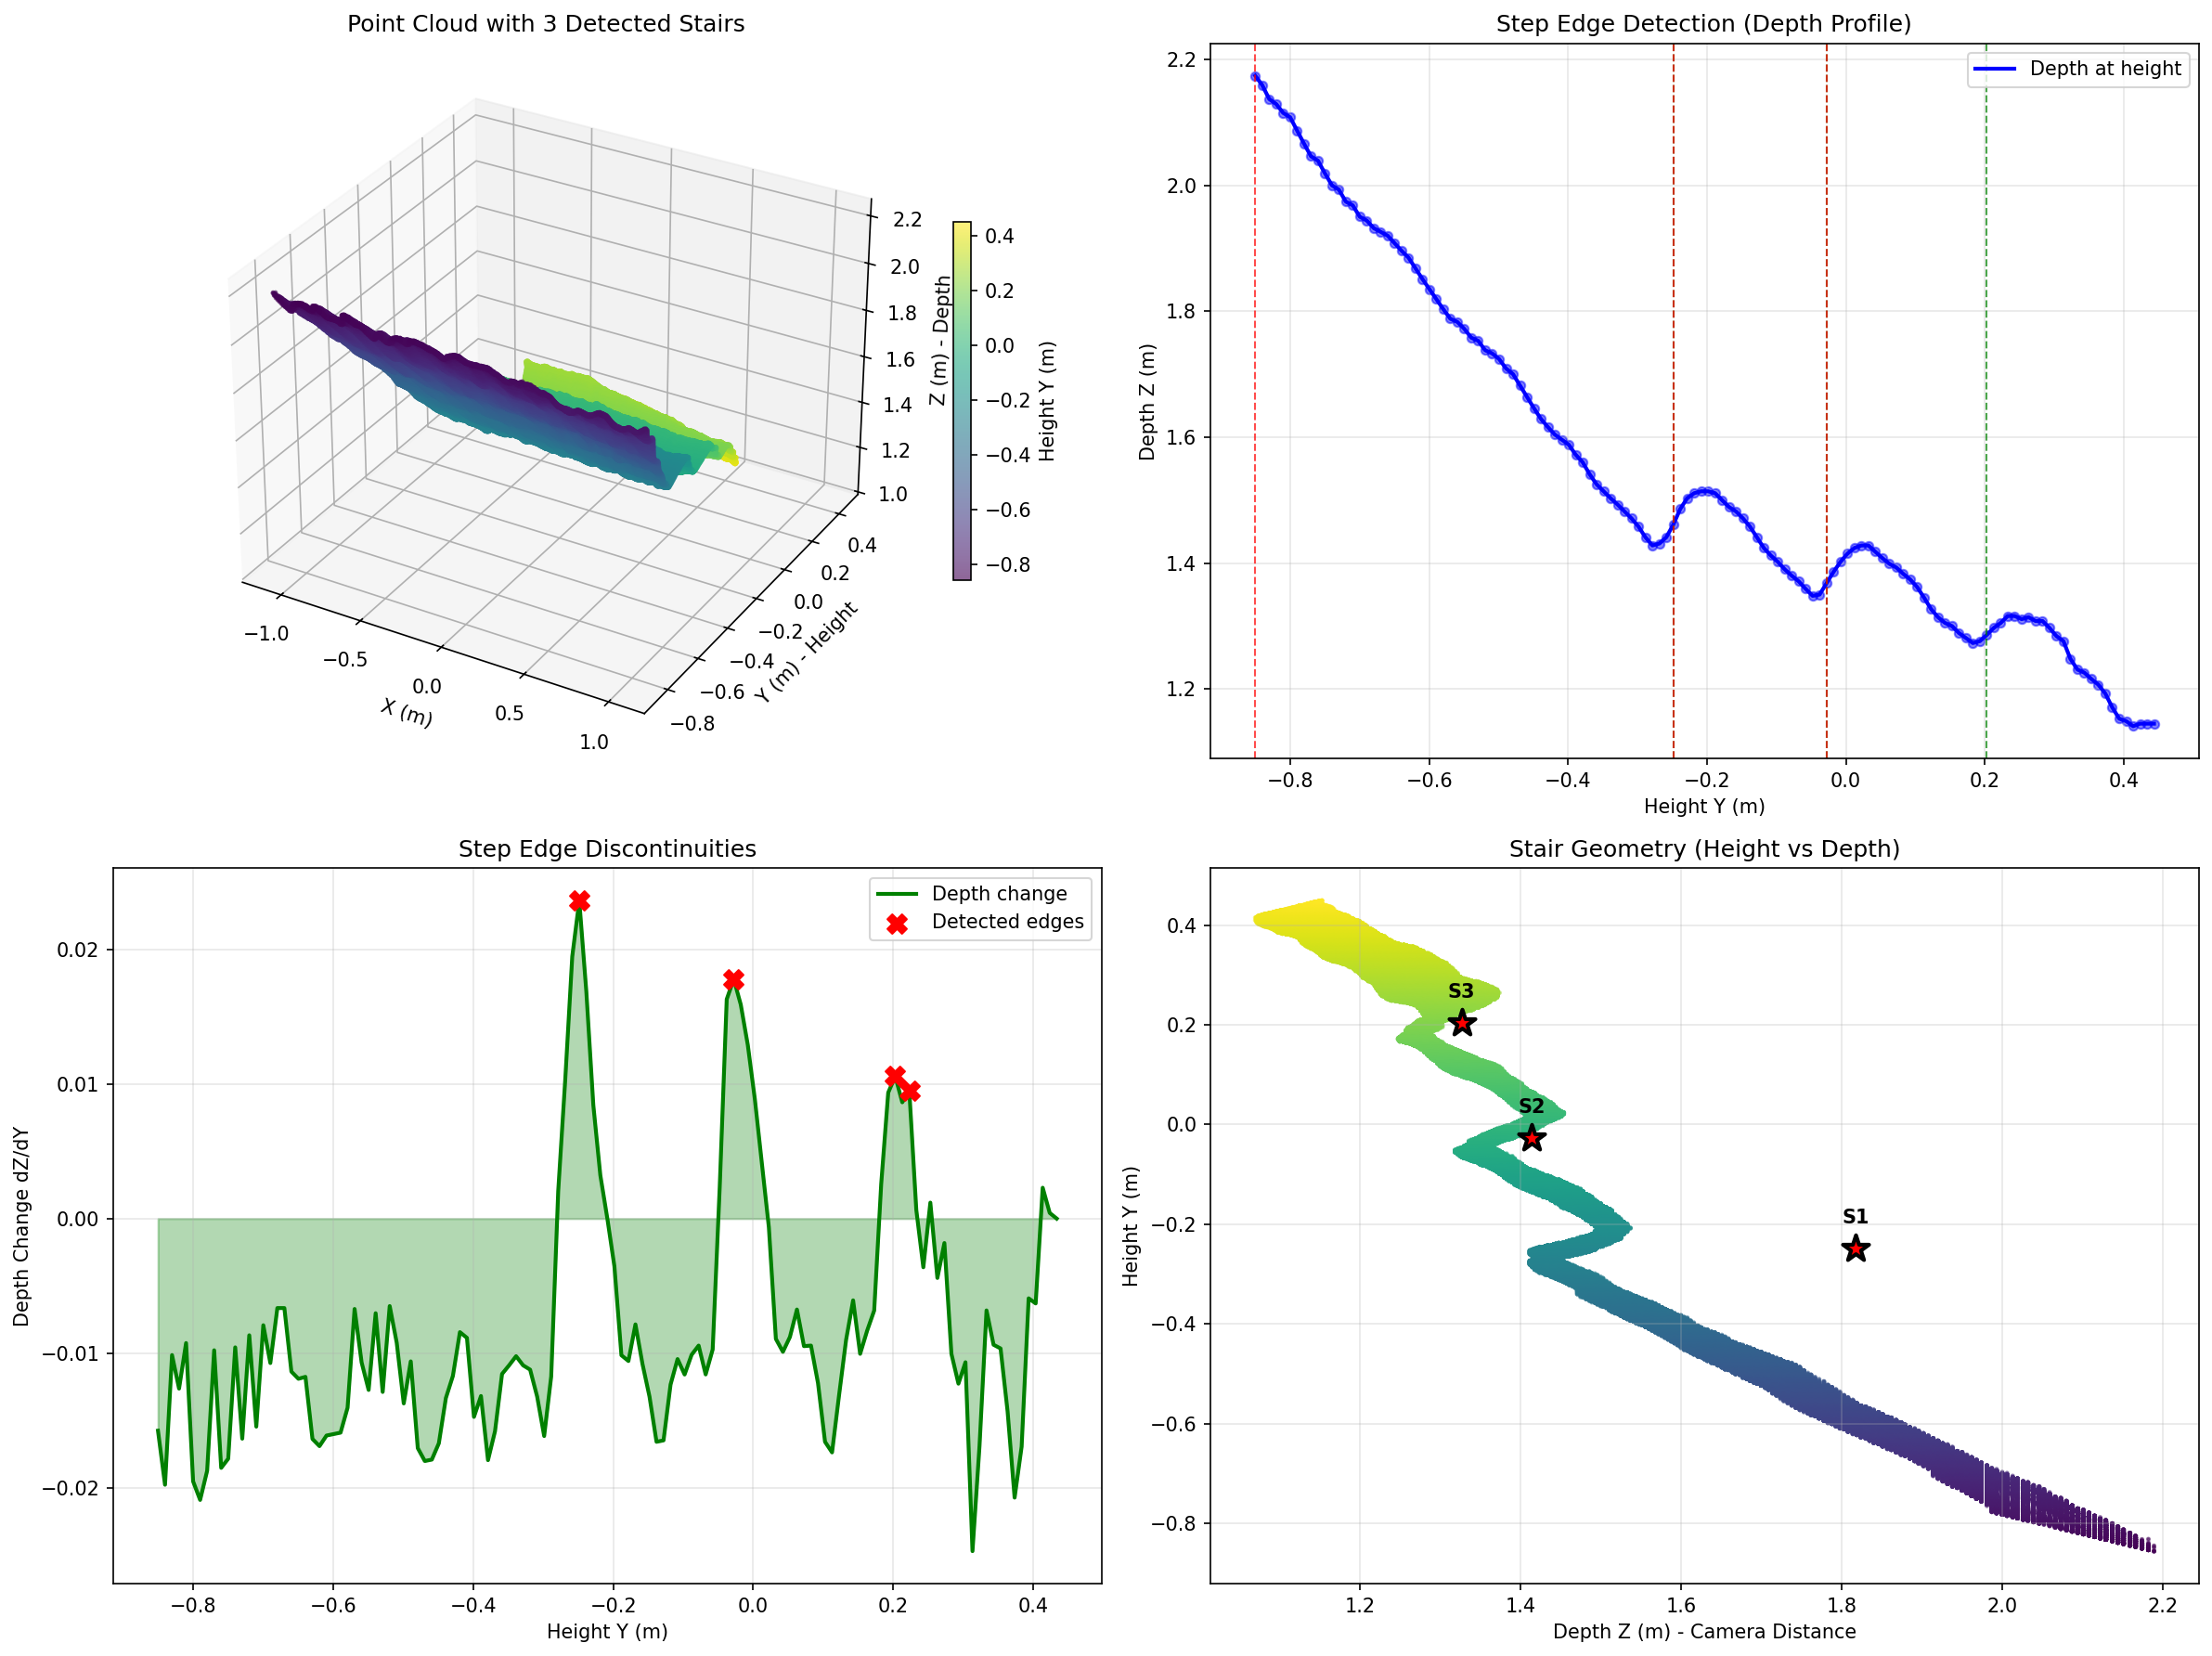
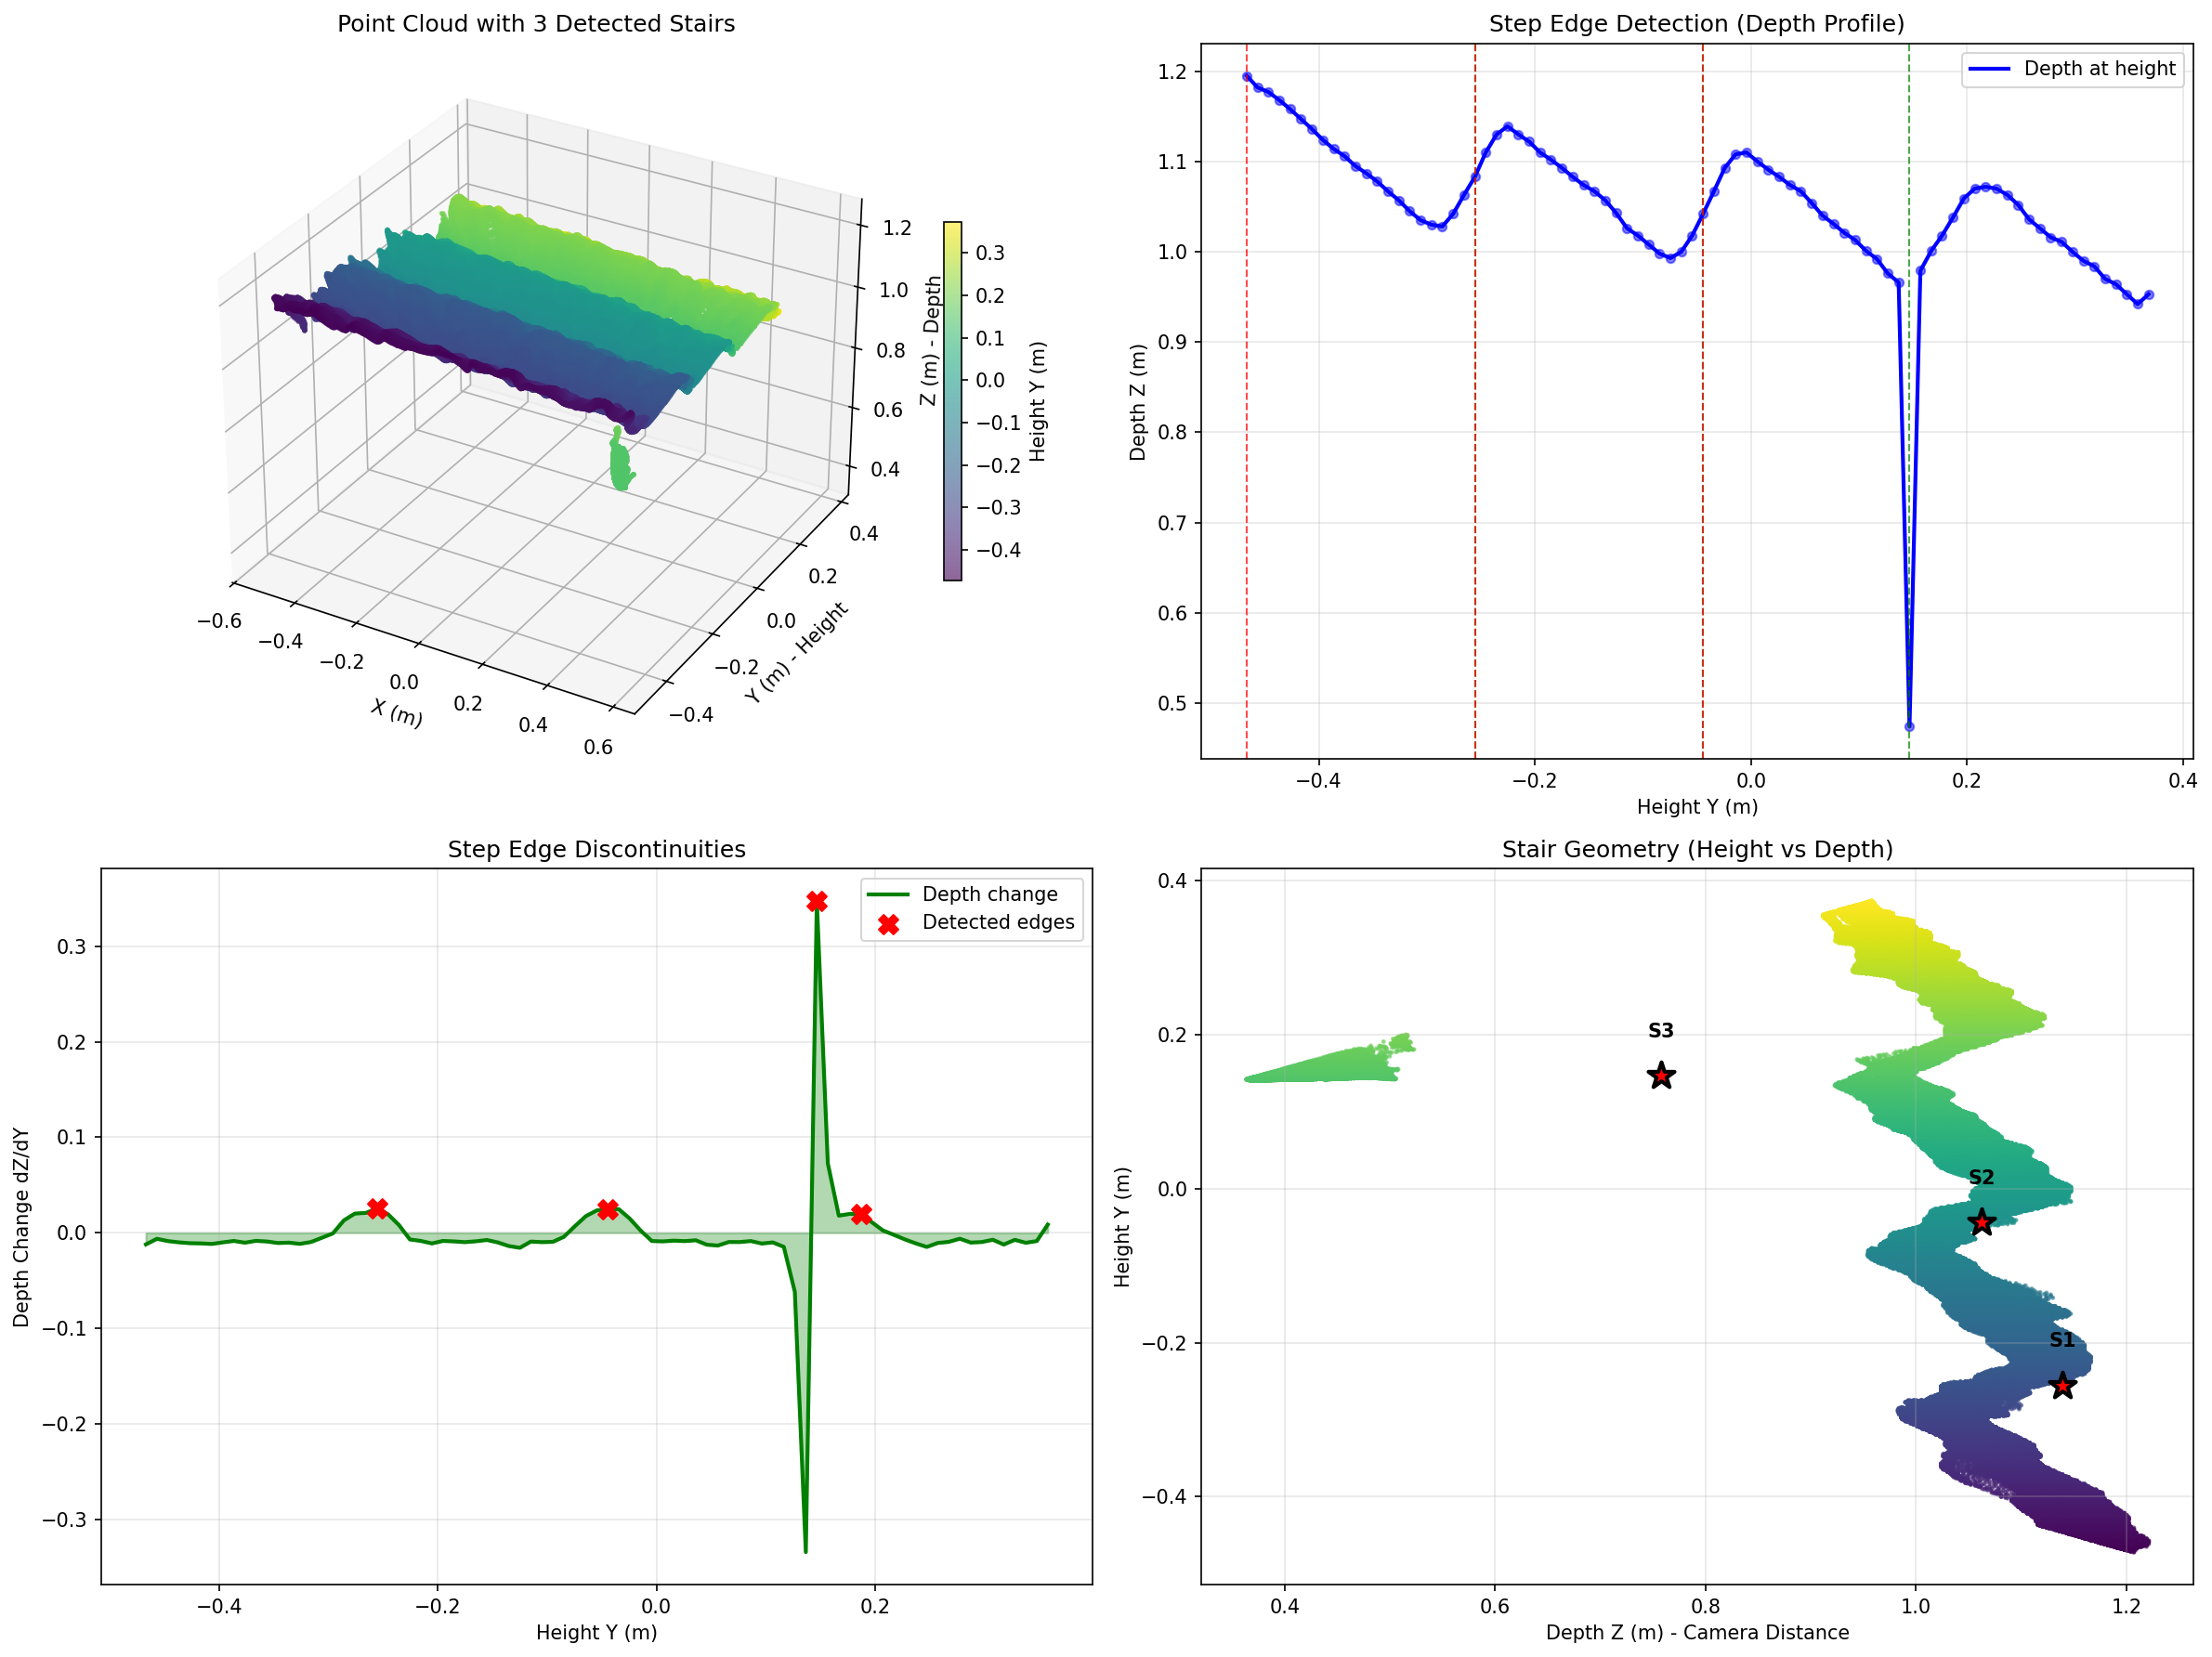
stair count somewhat works

diff --git a/training/stair_counter.py b/training/stair_counter.py
@@ -11,8 +11,8 @@ from scipy.signal import find_peaks
 from scipy import ndimage
 
 # Configuration
-STAIRS_DATASET_PATH = r'C:\Users\ander\Documents\GitHub\ExoVision\data\raw\realsense_d435\session_20260420_121030\pointcloud'  # Path to point cloud dataset (directory containing .npz files)
-FRAME_TO_ANALYZE = 24  # Which frame to analyze
+STAIRS_DATASET_PATH = r'C:\Users\ander\Documents\GitHub\ExoVision\data\raw\realsense_d435\session_20260420_121505\pointcloud'  # Path to point cloud dataset (directory containing .npz files)
+FRAME_TO_ANALYZE = 413  # Which frame to analyze
 HEIGHT_BIN_SIZE = 0.01  # 1cm bins for height analysis (m)
 MIN_POINTS_PER_STEP = 500  # Minimum points to count as a step (increased to filter noise)
 PEAK_DISTANCE = 25  # Minimum distance between peaks in histogram bins (tuned)
@@ -28,7 +28,7 @@ def load_point_cloud(npz_file):
         print(f"Error loading {npz_file}: {e}")
         return None
 
-def count_stairs_by_step_edges(points, bin_size=0.01, min_jump=0.1):
+def count_stairs_by_step_edges(points, bin_size=0.01, min_jump=0.1, min_width=0.1):
     """
     Detect stairs by finding step edges (discontinuities in depth as height increases).
     
@@ -38,10 +38,17 @@ def count_stairs_by_step_edges(points, bin_size=0.01, min_jump=0.1):
     3. Look for jumps in Z → these are step risers
     4. Extract stairs from the discontinuities
     
-    Returns: Stair information with rise heights
+    Args:
+        points: Point cloud array (N x 3)
+        bin_size: Height bin size in meters (default 0.01m = 1cm)
+        min_jump: Minimum depth jump threshold (not currently used in filtering)
+        min_width: Minimum X-axis width of stair in meters (default 0.1m = 10cm)
+    
+    Returns: Stair information with rise heights and widths
     """
     y_values = points[:, 1]
     z_values = points[:, 2]
+    x_values = points[:, 0]
     
     y_min, y_max = y_values.min(), y_values.max()
     z_min, z_max = z_values.min(), z_values.max()
@@ -105,7 +112,28 @@ def count_stairs_by_step_edges(points, bin_size=0.01, min_jump=0.1):
             mask = (y_values >= stair_y_min) & (y_values <= stair_y_max)
             num_points = np.sum(mask)
             
-            if num_points > 50 and stair_y_height > 0.05:  # Filter out tiny stairs (less than 5cm)
+            # Calculate X-width of this stair (depth-aware)
+            if num_points > 0:
+                # Get median depth for this stair
+                median_z = np.median(z_values[mask])
+                
+                # Only measure width from points near the median depth (±5cm)
+                depth_tolerance = 0.05
+                z_filter = np.abs(z_values[mask] - median_z) <= depth_tolerance
+                
+                if np.sum(z_filter) > 0:
+                    stair_x_min = x_values[mask][z_filter].min()
+                    stair_x_max = x_values[mask][z_filter].max()
+                    stair_x_width = stair_x_max - stair_x_min
+                else:
+                    # Fallback if no points within tolerance
+                    stair_x_min = x_values[mask].min()
+                    stair_x_max = x_values[mask].max()
+                    stair_x_width = stair_x_max - stair_x_min
+            else:
+                stair_x_width = 0
+            
+            if num_points > 50 and stair_y_height > 0.05 and stair_x_width >= min_width:
                 stair_info.append({
                     'y_height': stair_y_height,
                     'y_min': stair_y_min,
@@ -113,6 +141,9 @@ def count_stairs_by_step_edges(points, bin_size=0.01, min_jump=0.1):
                     'z_at_bottom': stair_z_bottom,
                     'z_at_top': stair_z_top,
                     'z_depth_change': stair_z_top - stair_z_bottom,
+                    'x_width': stair_x_width,
+                    'x_min': stair_x_min,
+                    'x_max': stair_x_max,
                     'point_count': num_points
                 })
             
@@ -217,7 +248,8 @@ def main():
     
     results = count_stairs_by_step_edges(points, 
                                          bin_size=0.01,
-                                         min_jump=0.05)
+                                         min_jump=0.05,
+                                         min_width=0.5)  # Temporarily lower to see detected widths
     
     num_stairs = results['num_stairs']
     stair_info = results['stair_info']
@@ -232,6 +264,7 @@ def main():
             print(f"\n  Stair {i+1}:")
             print(f"    Height range (Y): {stair['y_min']:.4f} to {stair['y_max']:.4f} m")
             print(f"    Rise height: {stair['y_height']:.4f} m ({stair['y_height']*100:.2f} cm)")
+            print(f"    Width (X): {stair['x_width']:.4f} m ({stair['x_width']*100:.2f} cm)")
             print(f"    Depth (Z): {stair['z_at_bottom']:.4f} to {stair['z_at_top']:.4f} m")
             print(f"    Points: {stair['point_count']}")
     

diff --git a/training/visualization_methods.py b/training/visualization_methods.py
@@ -15,7 +15,7 @@ print("VISUALIZATION CAPABILITY TEST")
 print("="*70)
 
 # Load a sample point cloud
-dataset_path = r'C:\Users\ander\Documents\GitHub\ExoVision\data\raw\realsense_d435\session_20260420_121030\pointcloud\frame_000024.npz'
+dataset_path = r'C:\Users\ander\Documents\GitHub\ExoVision\data\raw\realsense_d435\session_20260420_121505\pointcloud\frame_000372.npz'  # Update this path to a valid .npz file in your dataset
 if not os.path.exists(dataset_path):
     print(f"❌ Test data not found: {dataset_path}")
     sys.exit(1)